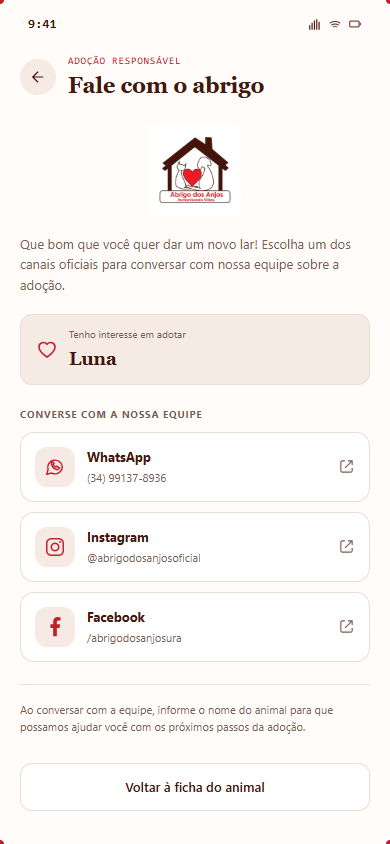
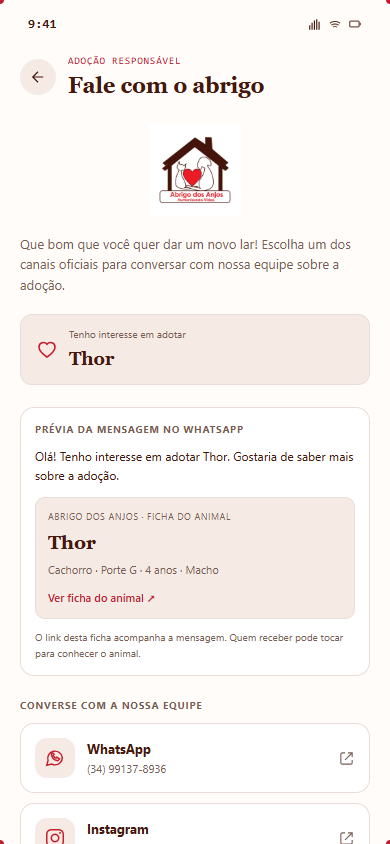
feat(design): proponha compartilhamento da ficha por link [DESIGN-CONTACT-002]

diff --git a/design/abrigo-dos-anjos-figma.html b/design/abrigo-dos-anjos-figma.html
@@ -471,6 +471,16 @@
     .adoption-contact .contact-external {width:17px;height:17px;color:var(--s-muted);flex-shrink:0;}
     .adoption-contact .contact-note {border-top:1px solid var(--s-border);padding-top:16px;margin-top:22px;color:var(--s-muted);font-size:11px;line-height:1.6;}
     .adoption-contact .contact-return {width:100%;margin-top:16px;padding:13px;border:1px solid var(--s-border);border-radius:12px;background:white;color:var(--s-fg);font-size:13px;font-weight:600;}
+
+    .adoption-contact .contact-message {border:1px solid var(--s-border);border-radius:14px;background:white;padding:14px;margin:0 0 22px;}
+    .adoption-contact .contact-message-label {font-size:10px;letter-spacing:.07em;text-transform:uppercase;color:var(--s-muted);margin:0 0 10px;}
+    .adoption-contact .contact-message-text {font-size:12px;line-height:1.6;color:var(--s-fg);margin:0 0 12px;white-space:pre-line;}
+    .adoption-contact .contact-animal-link {display:block;text-decoration:none;padding:12px;background:var(--s-soft);border:1px solid var(--s-border);border-radius:10px;color:var(--s-fg);}
+    .adoption-contact .contact-animal-link small {display:block;font-size:9px;letter-spacing:.06em;text-transform:uppercase;color:var(--s-muted);margin-bottom:5px;}
+    .adoption-contact .contact-animal-link strong {display:block;font-family:var(--font-display);font-size:19px;}
+    .adoption-contact .contact-animal-link span {display:block;font-size:11px;line-height:1.6;color:var(--s-muted);margin-top:4px;overflow-wrap:anywhere;}
+    .adoption-contact .contact-animal-link .contact-open-animal {font-size:11px;color:var(--s-accent);font-weight:600;margin-top:10px;}
+    .adoption-contact .contact-message-hint {font-size:10px;line-height:1.6;color:var(--s-muted);margin:10px 0 0;}
   </style>
 </head>
 <body>
@@ -1003,10 +1013,20 @@
               <div class="contact-scroll">
                 <img class="contact-logo" src="image.png" alt="Abrigo dos Anjos — Humanizando Vidas" />
                 <p class="contact-intro">Que bom que você quer dar um novo lar! Escolha um dos canais oficiais para conversar com nossa equipe sobre a adoção.</p>
-                <div class="contact-pet"><svg viewBox="0 0 24 24" fill="none" stroke="currentColor" stroke-width="1.6"><path d="M12 20s-8-4.8-8-10a4.5 4.5 0 0 1 8-2.8A4.5 4.5 0 0 1 20 10c0 5.2-8 10-8 10z"/></svg><div><small>Tenho interesse em adotar</small><strong>Luna</strong></div></div>
+                <div class="contact-pet"><svg viewBox="0 0 24 24" fill="none" stroke="currentColor" stroke-width="1.6"><path d="M12 20s-8-4.8-8-10a4.5 4.5 0 0 1 8-2.8A4.5 4.5 0 0 1 20 10c0 5.2-8 10-8 10z"/></svg><div><small>Tenho interesse em adotar</small><strong id="contactAnimalName">Thor</strong></div></div>
+                <div class="contact-message">
+                  <h2 class="contact-message-label">Prévia da mensagem no WhatsApp</h2>
+                  <p class="contact-message-text" id="contactMessageText">Olá! Tenho interesse em adotar Thor. Gostaria de saber mais sobre a adoção.</p>
+                  <a class="contact-animal-link" href="#screen-3" data-nav="screen-3" aria-label="Abrir ficha do animal compartilhado">
+                    <small>Abrigo dos Anjos · ficha do animal</small><strong id="contactLinkName">Thor</strong>
+                    <span id="contactLinkTraits">Cachorro · Porte G · 4 anos · Macho</span>
+                    <span class="contact-open-animal">Ver ficha do animal ↗</span>
+                  </a>
+                  <p class="contact-message-hint">O link desta ficha acompanha a mensagem. Quem receber pode tocar para conhecer o animal.</p>
+                </div>
                 <h2 class="contact-section-label">Converse com a nossa equipe</h2>
                 <div class="contact-channels"><a class="contact-channel" data-contact="whatsapp" href="https://wa.me/5534991378936" target="_blank" rel="noopener noreferrer" aria-label="Abrir WhatsApp do Abrigo dos Anjos"><span class="contact-symbol"><svg viewBox="0 0 24 24" fill="none" stroke="currentColor" stroke-width="1.6"><path d="M20 11.5a8 8 0 0 1-8 8 8 8 0 0 1-3.6-.9L3 20l1.4-5.2a8 8 0 1 1 15.6-3.3z"/><path d="M8 7c0 4 3 7 7 8l2-2-3-2-1 1c-1.3-.5-2.5-1.7-3-3l1-1-2-2z"/></svg></span><span class="contact-copy"><strong>WhatsApp</strong><small>(34) 99137-8936</small></span><svg class="contact-external" viewBox="0 0 24 24" fill="none" stroke="currentColor" stroke-width="1.6"><path d="M14 4h6v6m0-6L10 14M10 4H6a2 2 0 0 0-2 2v12a2 2 0 0 0 2 2h12a2 2 0 0 0 2-2v-4"/></svg></a><a class="contact-channel" data-contact="instagram" href="https://www.instagram.com/abrigodosanjosoficial/" target="_blank" rel="noopener noreferrer" aria-label="Abrir Instagram do Abrigo dos Anjos"><span class="contact-symbol"><svg viewBox="0 0 24 24" fill="none" stroke="currentColor" stroke-width="1.6"><rect x="3" y="3" width="18" height="18" rx="5"/><circle cx="12" cy="12" r="4"/><circle cx="17.5" cy="6.5" r="1" fill="currentColor" stroke="none"/></svg></span><span class="contact-copy"><strong>Instagram</strong><small>@abrigodosanjosoficial</small></span><svg class="contact-external" viewBox="0 0 24 24" fill="none" stroke="currentColor" stroke-width="1.6"><path d="M14 4h6v6m0-6L10 14M10 4H6a2 2 0 0 0-2 2v12a2 2 0 0 0 2 2h12a2 2 0 0 0 2-2v-4"/></svg></a><a class="contact-channel" data-contact="facebook" href="https://www.facebook.com/abrigodosanjosura/?locale=pt_BR" target="_blank" rel="noopener noreferrer" aria-label="Abrir Facebook do Abrigo dos Anjos"><span class="contact-symbol"><svg viewBox="0 0 24 24" fill="currentColor"><path d="M14 22v-9h3l.5-4H14V7c0-1 .3-2 2-2h2V1.4A25 25 0 0 0 15 1c-3 0-5 1.8-5 5v3H7v4h3v9z"/></svg></span><span class="contact-copy"><strong>Facebook</strong><small>/abrigodosanjosura</small></span><svg class="contact-external" viewBox="0 0 24 24" fill="none" stroke="currentColor" stroke-width="1.6"><path d="M14 4h6v6m0-6L10 14M10 4H6a2 2 0 0 0-2 2v12a2 2 0 0 0 2 2h12a2 2 0 0 0 2-2v-4"/></svg></a></div>
-                <p class="contact-note">Ao conversar com a equipe, informe o nome do animal para que possamos ajudar você com os próximos passos da adoção.</p>
+                <p class="contact-note">No WhatsApp, a mensagem vem com o link da ficha. Você revisa e envia quando quiser.</p>
                 <button class="contact-return" data-nav="screen-3">Voltar à ficha do animal</button>
               </div>
             </div>
@@ -1559,6 +1579,22 @@
   q('[data-artboard="screen-8"]').querySelectorAll('input,select').forEach(function(el){el.addEventListener('input',previewSchedule);el.addEventListener('change',previewSchedule);});
   q('#medSavePreview').onclick=function(){if(!previewSchedule()){q('#medScheduleFeedback').textContent='Revise o período e os horários informados.';return;}q('#medScheduleFeedback').textContent='Prévia da programação pronta. Dados ilustrativos, sem gravação no app.';q('#medScheduleFeedback').scrollIntoView({block:'nearest'});};
   renderCalendar();showApplication(records[1]);previewSchedule();
+})();
+</script>
+
+<script>
+(function(){
+  function updateAdoptionContact(){
+    var detail=document.querySelector('[data-artboard="screen-3"]');
+    var name=detail.querySelector('.detail-name').textContent.trim();
+    var traits=Array.from(detail.querySelectorAll('.detail-tag')).slice(0,4).map(function(tag){return tag.textContent.trim();}).join(' · ');
+    document.getElementById('contactAnimalName').textContent=name;
+    document.getElementById('contactLinkName').textContent=name;
+    document.getElementById('contactLinkTraits').textContent=traits;
+    document.getElementById('contactMessageText').textContent='Olá! Tenho interesse em adotar '+name+'. Gostaria de saber mais sobre a adoção.';
+  }
+  document.querySelector('[data-artboard="screen-3"] .detail-cta-btn').addEventListener('click',updateAdoptionContact);
+  updateAdoptionContact();
 })();
 </script>
 </body>

diff --git a/design/adoption-contact-proposal.md b/design/adoption-contact-proposal.md
@@ -14,7 +14,7 @@ Exibir canais oficiais em cartões e retorno à ficha pelo topo e pelo final.
 - Facebook: /abrigodosanjosura — https://www.facebook.com/abrigodosanjosura/?locale=pt_BR
 
 Os links do protótipo abrem o serviço externo em outra aba; nenhuma mensagem é
-enviada automaticamente. “Luna” é o animal de exemplo da ficha no protótipo.
+enviada automaticamente. A tela conserva o nome e as características do animal selecionado na ficha.
 Após aprovação, planejar binding ao animal selecionado, abertura de links em
 Service, ViewModel/Repository conforme a constituição, justificativa de eventual
 pacote novo e testes unitários/Widget/Android antes de alterar o Flutter.
@@ -27,3 +27,43 @@ Validação visual: entrada pela ficha, retorno pelos dois controles, três URLs
 oficiais e ausência de overflow em 320/390 px; sem erro JavaScript. Regressões
 dos fluxos de calendário/programação/detalhes também passaram. Prévia em
 [previews/adoption-contact.png](previews/adoption-contact.png). Aprovação pendente.
+
+
+## Revisão solicitada — DESIGN-CONTACT-002
+
+Usuário pediu ajustes: deseja compartilhar um link da ficha, e não somente texto
+com características. Ao tocar nesse link, quem recebe deve abrir o mesmo animal
+no aplicativo. Abrigo não possui site/domínio, conforme resposta de 2026-11-01.
+
+A tela 10 passa a mostrar mensagem e cartão de prévia do link (nome e características
+públicas), vinculado ao animal da ficha. O clique no cartão simula abrir a ficha
+no protótipo. Nenhum endereço público definitivo é inventado e a prévia não é um
+link de produção. Perfis oficiais e número de WhatsApp permanecem os fornecidos.
+
+Após aprovação, planejar:
+
+- Endereço público HTTPS e hospedagem da ficha compartilhável; responsável e custo
+  devem ser definidos antes de publicar. Nenhuma compra ou publicação autorizada.
+- URL estável por animal e App Links Android verificados; iOS/Universal Links na
+  entrega própria. Abrir o animal certo com app aberto/fechado; sem app, ficha web.
+- Mensagem WhatsApp com URL codificada, revisável pelo remetente, sem envio automático.
+- Metadados públicos da página para prévia de link; aparência depende do aplicativo
+  receptor e não deve ser prometida como idêntica ao cartão do protótipo.
+- Instagram/Facebook mantêm perfis oficiais; alternativa de copiar o mesmo link,
+  sem prometer preenchimento automático de mensagens nessas redes.
+- Animal oculto/removido/indisponível retorna mensagem amigável; URL contém somente
+  identificador público, nunca notas clínicas, tratamentos, sessões ou credenciais.
+- Testes de roteamento/URL, cold/warm start Android, fallback web, visibilidade e
+  segurança; alterações de pacotes/arquitetura justificadas no plano.
+
+Referências oficiais consultadas:
+[WhatsApp click to chat](https://faq.whatsapp.com/5913398998672934),
+[Android App Links](https://developer.android.com/training/app-links/about),
+[associação HTTPS](https://developer.android.com/training/app-links/configure-assetlinks),
+[Flutter App Links](https://docs.flutter.dev/cookbook/navigation/set-up-app-links).
+
+Estado da revisão: aguardando aprovação. Sem implementação Flutter deste fluxo.
+
+Validação da revisão: 320/390 px, mensagem/cartão vinculados ao nome da ficha,
+características públicas preservadas, clique da prévia voltando ao mesmo animal
+e três contatos oficiais conferidos. Sem erro JS/overflow. Aprovação ainda pendente.
